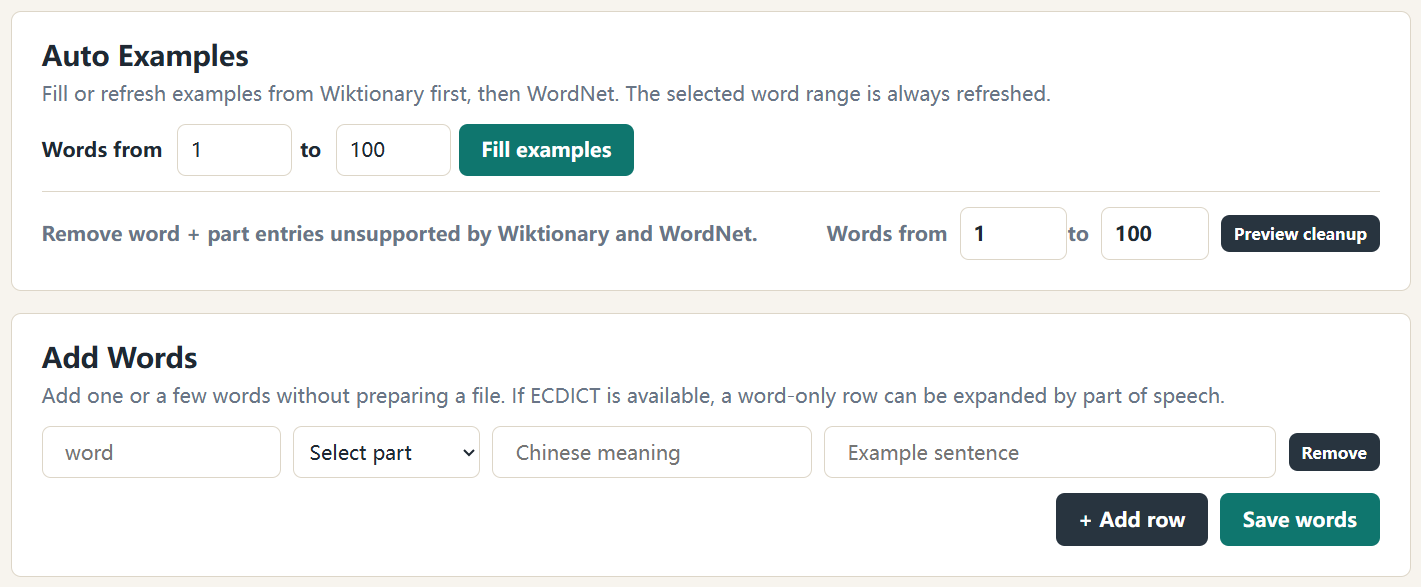
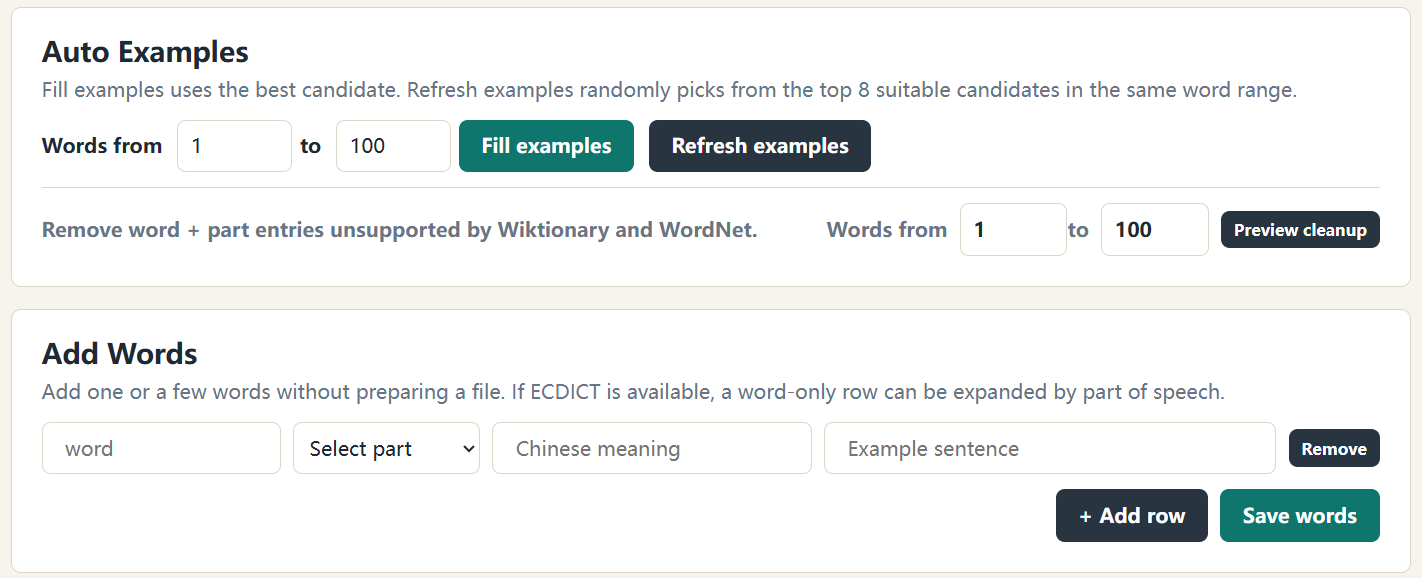
Update

diff --git a/templates/index.html b/templates/index.html
@@ -147,14 +147,15 @@
   <section class="panel auto-examples-panel">
     <div class="section-heading compact-heading">
       <h2>Auto Examples</h2>
-      <p>Fill or refresh examples from Wiktionary first, then WordNet. The selected word range is always refreshed.</p>
+      <p>Fill examples uses the best candidate. Refresh examples randomly picks from the top 8 suitable candidates in the same word range.</p>
     </div>
     <form class="auto-examples-form" action="{{ url_for('fill_auto_examples') }}" method="post">
       <label for="example_start">Words from</label>
       <input id="example_start" name="example_start" type="number" min="1" value="1">
       <label for="example_end">to</label>
       <input id="example_end" name="example_end" type="number" min="1" value="100">
-      <button type="submit">Fill examples</button>
+      <button type="submit" name="example_mode" value="best">Fill examples</button>
+      <button type="submit" name="example_mode" value="refresh" class="secondary">Refresh examples</button>
     </form>
     <div class="maintenance-row">
       <span>Remove word + part entries unsupported by Wiktionary and WordNet.</span>

diff --git a/static/styles.css b/static/styles.css
@@ -748,7 +748,7 @@ h2 {
 }
 
 .auto-examples-form {
-  grid-template-columns: auto 86px auto 86px auto;
+  grid-template-columns: auto 86px auto 86px auto auto;
   align-items: center;
   justify-content: start;
   color: var(--muted);

diff --git a/app.py b/app.py
@@ -3,6 +3,7 @@ from __future__ import annotations
 import csv
 import io
 import json
+import random
 import re
 import sqlite3
 import urllib.request
@@ -1972,6 +1973,7 @@ def simplify_chinese(text: str | None) -> str | None:
 def fill_examples_from_dictionaries(
     start: int = 1,
     end: int = 100,
+    mode: str = "best",
 ) -> tuple[int, int]:
     if not WORDNET_ZIP_PATH.exists() and not wiktionary_jsonl_path():
         return 0, -1
@@ -1995,6 +1997,12 @@ def fill_examples_from_dictionaries(
             if definition:
                 definitions[int(row["id"])] = definition
 
+        if mode == "refresh":
+            lookup = refresh_example_candidate(word, part_of_speech, row["example_sentence"], top_n=8)
+            if lookup:
+                matches[int(row["id"])] = (lookup["example_sentence"], lookup["definition"])
+            continue
+
         lookup = lookup_wiktionary_example(word, part_of_speech)
         if lookup:
             matches[int(row["id"])] = (lookup["example_sentence"], lookup["definition"])
@@ -2004,20 +2012,21 @@ def fill_examples_from_dictionaries(
             matches[int(row["id"])] = (lookup["example_sentence"], lookup["definition"])
 
     missing_ids = sorted({int(row["id"]) for row in rows} - set(matches))
-    for batch_start in range(0, len(missing_ids), 500):
-        batch = missing_ids[batch_start : batch_start + 500]
-        placeholders = ",".join("?" for _ in batch)
-        get_db().execute(
-            f"""
-            UPDATE words
-            SET example_sentence = NULL,
-                example_translation = NULL,
-                updated_at = CURRENT_TIMESTAMP
-            WHERE library_id = ?
-              AND id IN ({placeholders})
-            """,
-            [get_active_library_id(), *batch],
-        )
+    if mode != "refresh":
+        for batch_start in range(0, len(missing_ids), 500):
+            batch = missing_ids[batch_start : batch_start + 500]
+            placeholders = ",".join("?" for _ in batch)
+            get_db().execute(
+                f"""
+                UPDATE words
+                SET example_sentence = NULL,
+                    example_translation = NULL,
+                    updated_at = CURRENT_TIMESTAMP
+                WHERE library_id = ?
+                  AND id IN ({placeholders})
+                """,
+                [get_active_library_id(), *batch],
+            )
 
     for word_id, (sentence, example_definition) in matches.items():
         definition = definitions.get(word_id) or example_definition
@@ -2849,13 +2858,13 @@ def ensure_wordnet_lookup_index() -> None:
     db.commit()
 
 
-def lookup_wordnet_example(word: str, part_of_speech: str) -> sqlite3.Row | None:
+def ranked_wordnet_example_candidates(word: str, part_of_speech: str, limit: int = 20) -> list[sqlite3.Row]:
     if not word.strip() or not WORDNET_ZIP_PATH.exists():
-        return None
+        return []
     ensure_wordnet_lookup_index()
     part_group = wordnet_part_group(part_of_speech)
     if part_group not in {"n", "v", "a", "r"}:
-        return None
+        return []
     rows = get_db().execute(
         """
         SELECT example_sentence, definition, synset_id
@@ -2866,8 +2875,7 @@ def lookup_wordnet_example(word: str, part_of_speech: str) -> sqlite3.Row | None
         """,
         (word.strip().lower(), part_group),
     ).fetchall()
-    best = None
-    best_score = None
+    scored: list[tuple[tuple[int, int, int, int, str], sqlite3.Row]] = []
     for row in rows:
         sentence = row["example_sentence"]
         if not usable_wordnet_example(sentence, word):
@@ -2875,10 +2883,14 @@ def lookup_wordnet_example(word: str, part_of_speech: str) -> sqlite3.Row | None
         score = sentence_quality_score(sentence, word, part_of_speech, source="wordnet")
         if score[1] >= 6:
             continue
-        if best_score is None or score < best_score:
-            best = row
-            best_score = score
-    return best
+        scored.append((score, row))
+    scored.sort(key=lambda item: item[0])
+    return [row for _, row in scored[:limit]]
+
+
+def lookup_wordnet_example(word: str, part_of_speech: str) -> sqlite3.Row | None:
+    candidates = ranked_wordnet_example_candidates(word, part_of_speech, limit=1)
+    return candidates[0] if candidates else None
 
 
 def ensure_wiktionary_lookup_index(target_words: set[str] | None = None) -> None:
@@ -3068,9 +3080,9 @@ def ensure_wiktionary_lookup_index(target_words: set[str] | None = None) -> None
     db.commit()
 
 
-def lookup_wiktionary_example(word: str, part_of_speech: str) -> sqlite3.Row | None:
+def ranked_wiktionary_example_candidates(word: str, part_of_speech: str, limit: int = 8) -> list[sqlite3.Row]:
     if not word.strip() or not wiktionary_jsonl_path():
-        return None
+        return []
     ensure_wiktionary_lookup_index({word.strip().lower()})
     lookup_groups = wiktionary_lookup_groups(part_of_speech, word)
     placeholders = ",".join("?" for _ in lookup_groups)
@@ -3099,8 +3111,7 @@ def lookup_wiktionary_example(word: str, part_of_speech: str) -> sqlite3.Row | N
         if not ({"archaic", "obsolete", "dated", "rare"} & tags)
     ]
 
-    best = None
-    best_score = None
+    scored: list[tuple[tuple[int, int, bool, int, int, str], sqlite3.Row]] = []
     for row, tags in candidates:
         tag_penalty = 0
         if requested_group == "aux":
@@ -3130,10 +3141,14 @@ def lookup_wiktionary_example(word: str, part_of_speech: str) -> sqlite3.Row | N
             continue
         short_sentence_penalty = 0 if english_word_count(sentence) >= 6 else 1
         ranked_score = (tag_penalty, short_sentence_penalty, row["example_type"] == "quotation", score[2], score[3], score[4])
-        if best_score is None or ranked_score < best_score:
-            best = row
-            best_score = ranked_score
-    return best
+        scored.append((ranked_score, row))
+    scored.sort(key=lambda item: item[0])
+    return [row for _, row in scored[:limit]]
+
+
+def lookup_wiktionary_example(word: str, part_of_speech: str) -> sqlite3.Row | None:
+    candidates = ranked_wiktionary_example_candidates(word, part_of_speech, limit=1)
+    return candidates[0] if candidates else None
 
 
 def lookup_wiktionary_definition(word: str, part_of_speech: str) -> str | None:
@@ -3168,6 +3183,36 @@ def lookup_wiktionary_definition(word: str, part_of_speech: str) -> str | None:
         if len(definitions) >= 4:
             break
     return "\n".join(definitions) if definitions else None
+
+
+def refresh_example_candidate(
+    word: str,
+    part_of_speech: str,
+    current_sentence: str | None = None,
+    top_n: int = 8,
+) -> sqlite3.Row | None:
+    current = (current_sentence or "").strip()
+    seen_sentences = {current} if current else set()
+    candidates: list[sqlite3.Row] = []
+
+    for row in ranked_wiktionary_example_candidates(word, part_of_speech, limit=top_n):
+        sentence = str(row["example_sentence"] or "").strip()
+        if not sentence or sentence in seen_sentences:
+            continue
+        seen_sentences.add(sentence)
+        candidates.append(row)
+
+    if len(candidates) < top_n:
+        for row in ranked_wordnet_example_candidates(word, part_of_speech, limit=top_n):
+            sentence = str(row["example_sentence"] or "").strip()
+            if not sentence or sentence in seen_sentences:
+                continue
+            seen_sentences.add(sentence)
+            candidates.append(row)
+            if len(candidates) >= top_n:
+                break
+
+    return random.choice(candidates[:top_n]) if candidates else None
 
 
 def lookup_wordnet_definition(word: str, part_of_speech: str) -> str | None:
@@ -3690,15 +3735,20 @@ def fill_auto_examples():
         return redirect(url_for("index", edit=1))
 
     start, end = parse_word_range("example", default_start=1, default_end=100, max_span=2000)
+    mode = request.form.get("example_mode", "best")
+    if mode not in {"best", "refresh"}:
+        mode = "best"
     matched, checked = fill_examples_from_dictionaries(
         start,
         end,
+        mode=mode,
     )
     if checked == 0:
         flash(f"No words found in range {start}-{end}.", "success")
     else:
+        action = "refreshed from top-8 suitable candidates" if mode == "refresh" else "filled with the best candidates"
         flash(
-            f"Auto examples updated {matched} example sentences after checking {checked} words in range {start}-{end}.",
+            f"Auto examples {action}: updated {matched} example sentences after checking {checked} words in range {start}-{end}.",
             "success",
         )
     return redirect(url_for("index", edit=1))

diff --git a/README.md b/README.md
@@ -30,7 +30,7 @@ To help users build their own libraries, typeng supports TXT/CSV import accordin
 
 ![Automatic filling](./images/auto_filling.png)
 
-Many users may only want to provide the words first, so typeng provides automatic filling. Users can ask the system to match example sentences by part of speech within a selected range, and use `Preview cleanup` to check entries that still do not have reliable examples before deciding whether to keep them.
+Many users may only want to provide the words first, so typeng provides automatic filling. Users can ask the system to match example sentences by part of speech within a selected range. `Fill examples` chooses the highest-scoring example, while `Refresh examples` randomly replaces examples in the same range from the top 8 suitable candidates. Users can also use `Preview cleanup` to check entries that still do not have reliable examples before deciding whether to keep them.
 
 When a manually added word has no Chinese meaning, typeng tries to fill it from the local dictionary by matching the part of speech. If the user only enters the word, typeng can also split it into multiple entries according to the parts of speech found in the dictionary.
 